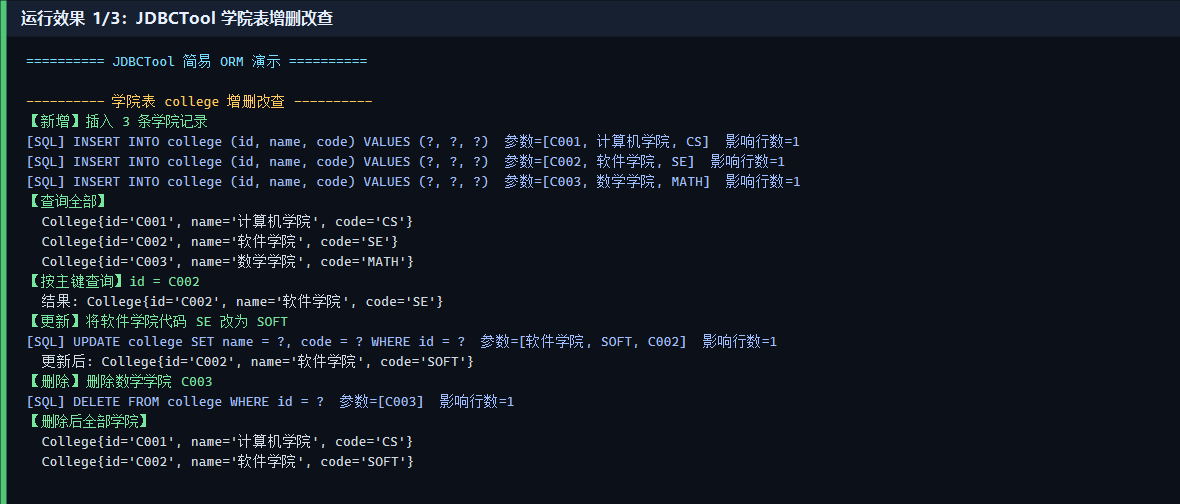
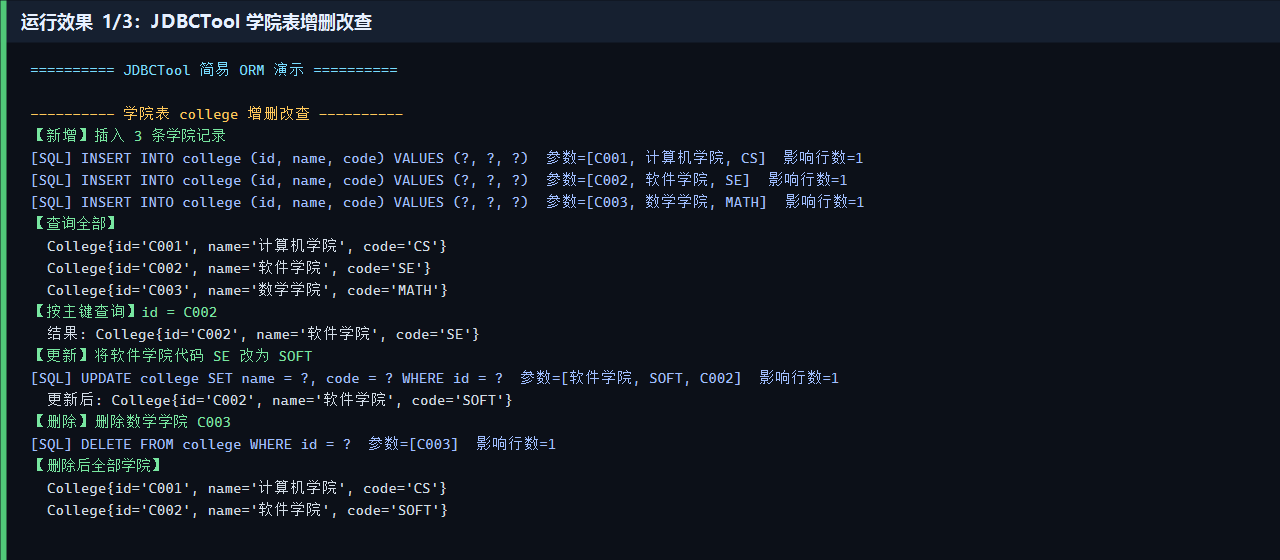
docs: add run screenshots, answer sheet and README updates

Changed region(s): [[0.0, 0.1786, 0.6712, 0.9226], [0.0, 0.0, 0.3051, 0.0595], [0.0, 0.0893, 0.3051, 0.1488]]

diff --git a/答案.md b/答案.md
@@ -1,0 +1,35 @@
+# 答案区
+
+## 9）运行效果截图
+
+演示程序 `JdbcToolDemo` 使用 `JDBCTool` 对 `DateTest` 库的 `college`、`student` 两张表依次执行：新增 → 查询全部（`resultSetToList` 反射映射）→ 按 id 查询 → 更新 → 删除。
+
+### 图1 学院表 college 增删改查
+
+![学院表增删改查](docs/screenshots/01-college-crud.png)
+
+### 图2 学生表 student 增删改查（反射映射）
+
+![学生表增删改查](docs/screenshots/02-student-crud.png)
+
+### 图3 DateTest 库最终表数据
+
+![DateTest最终数据](docs/screenshots/03-datetest-tables.png)
+
+完整控制台日志：`docs/screenshots/run-log.txt`
+
+## 10）仓库 URL 路径
+
+- 本地仓库路径：`E:\java\作业1 JDBC工具的设计与开发`
+- Git 仓库（本机）：`file:///E:/java/作业1 JDBC工具的设计与开发/.git`
+- 当前分支：`master`
+- 初始提交：`abbdb35 feat: implement JDBCTool ORM with student and college CRUD demo`
+
+如需推送到 GitHub / Gitee，可执行：
+
+```bash
+git remote add origin https://github.com/<你的用户名>/jdbc-tool.git
+git push -u origin master
+```
+
+将上面的远程地址替换为实际上传后的 URL 即可。

diff --git a/README.md b/README.md
@@ -88,4 +88,19 @@ mvn -q compile exec:java
 
 演示程序会依次对学院表、学生表执行：新增 → 查询全部 → 按 id 查询 → 更新 → 删除。
 
-截图见 `docs/screenshots/` 目录。
+![学院表增删改查](docs/screenshots/01-college-crud.png)
+
+![学生表增删改查](docs/screenshots/02-student-crud.png)
+
+![DateTest最终数据](docs/screenshots/03-datetest-tables.png)
+
+完整日志见 `docs/screenshots/run-log.txt`。
+
+## 八、Git 仓库
+
+本地仓库：`E:\java\作业1 JDBC工具的设计与开发`
+
+```bash
+git log --oneline
+# abbdb35 feat: implement JDBCTool ORM with student and college CRUD demo
+```
